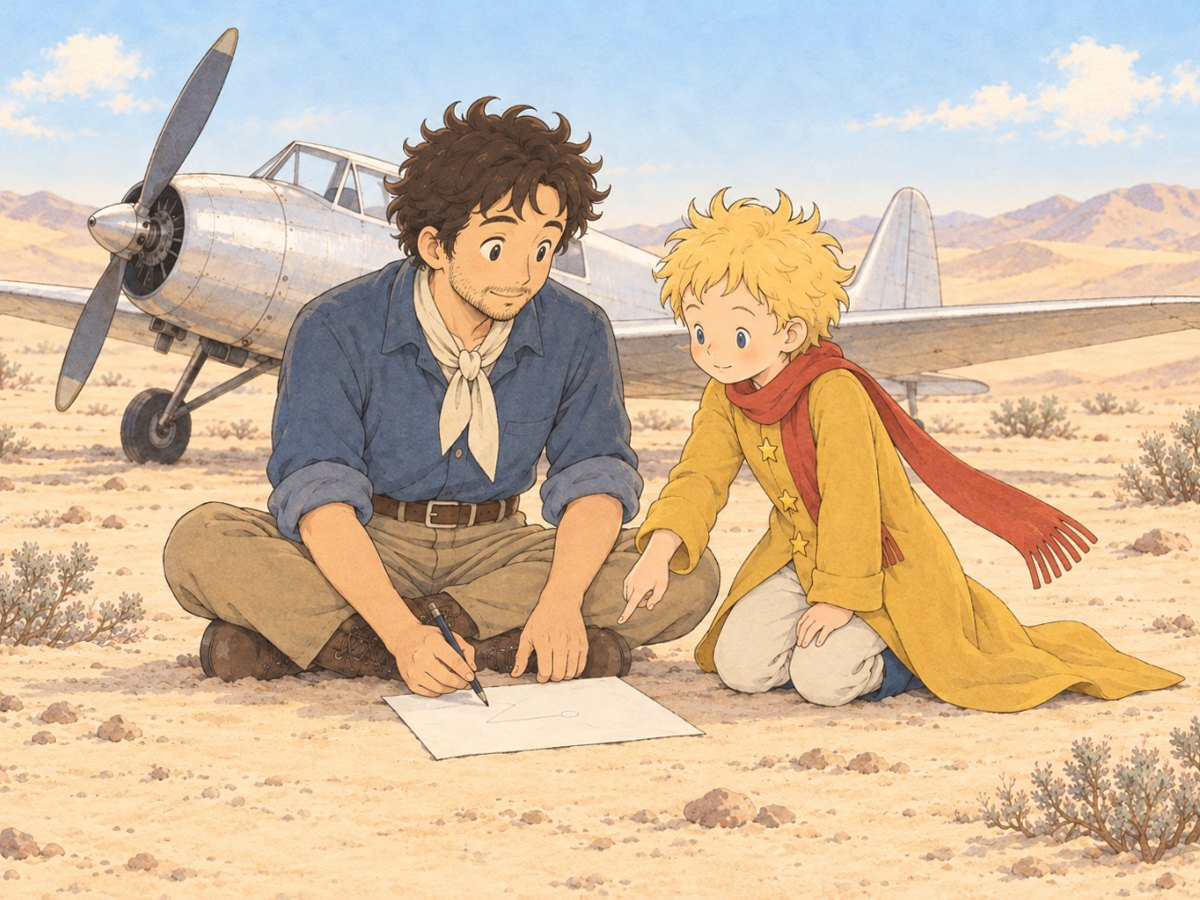
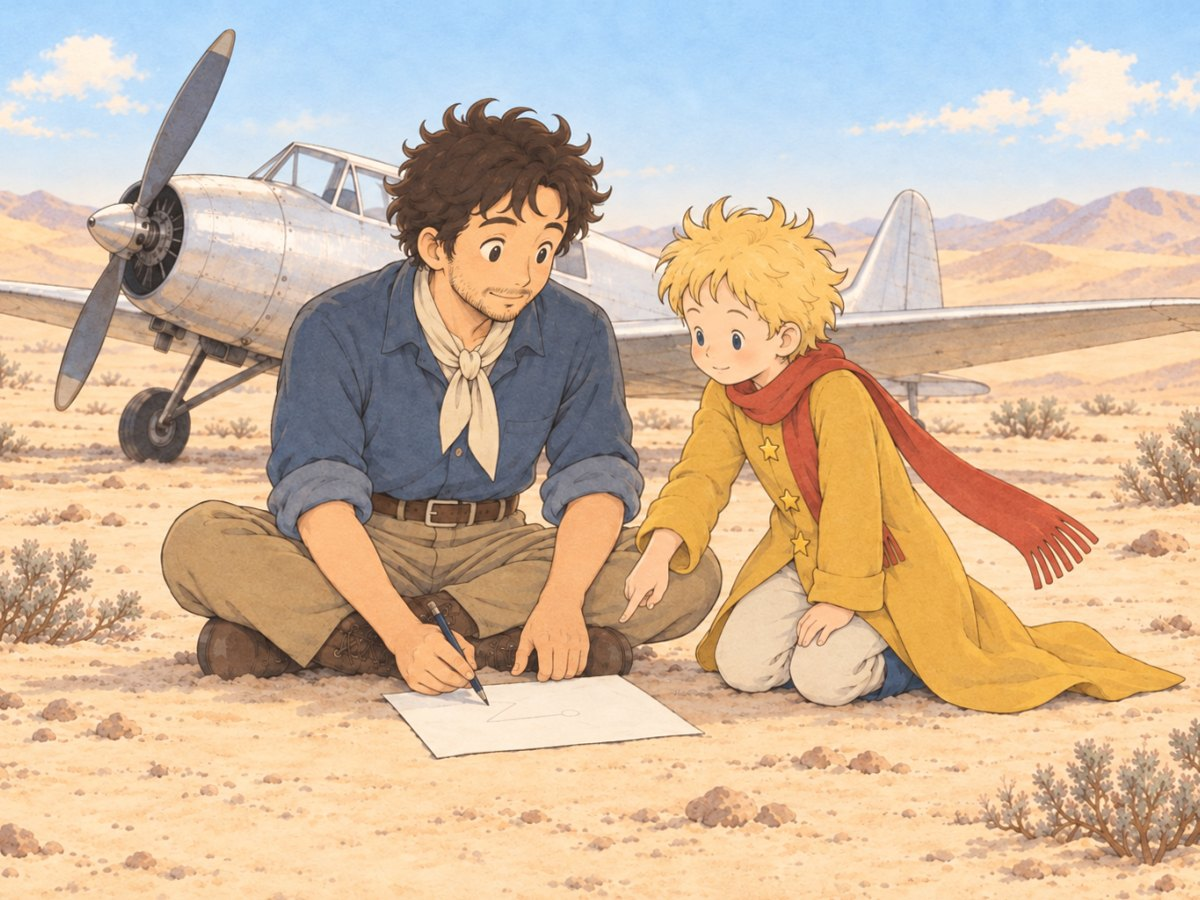
Little Prince faces checked across all chapters: the prince's eyes and hair matched to the reference sheet in 05-f5, 11-f1, 03-f2 and 13-f2

diff --git a/books/little-prince/images/README.md b/books/little-prince/images/README.md
@@ -178,3 +178,8 @@ chapter-20은 어린 왕자가 조금 옮겨져서 `../film/shots.js`의 점을 
 
 08-f2는 결과가 13% 작게 나와 정렬로 키웠고, 봉오리가 조금 왼쪽으로 옮겨져 `../film/shots.js`의 장미 점을 다시 잡았습니다(0.36 → 0.31). 나머지 점은 그대로입니다.
 땅 색은 손대지 않았습니다. chapter-08과 08-1은 주황빛 흙 언덕이고 나머지는 연한 모래인데, 배경까지 바꾸면 구도가 흔들리기 때문입니다.
+
+### 어린 왕자 얼굴 전체 점검 (2026-09-26)
+
+8장 작업 뒤 `../film/shots.js`의 어린 왕자 점으로 얼굴이 나오는 91장을 모두 잘라 기준 옆에 놓고 봤습니다. 대부분 기준 안에 있었고, 눈이 크고 둥근 클로즈업 4장만 위와 같은 방법(머리만 국소 편집, 눈 크기 규칙, 2개 만들어 고르기)으로 고쳤습니다: 05-f5, 11-f1, 03-f2, 13-f2(머리가 큰 갈기이기도 했음).
+인물 위치는 0.01 이내로만 움직여 `shots.js`는 바꾸지 않았습니다. 눈을 감았거나 얼굴이 가려진 그림(20-1, 24-f3, 24-f4, 25-f2, 26-f1, 26-f2)과 아주 작게 나온 그림은 그대로 두었습니다.
